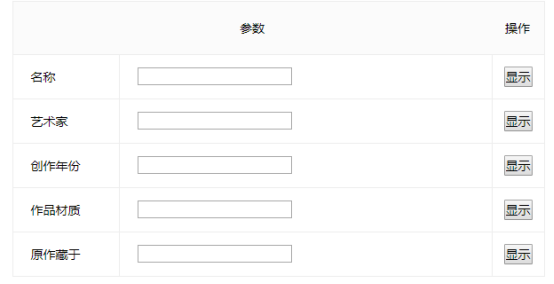
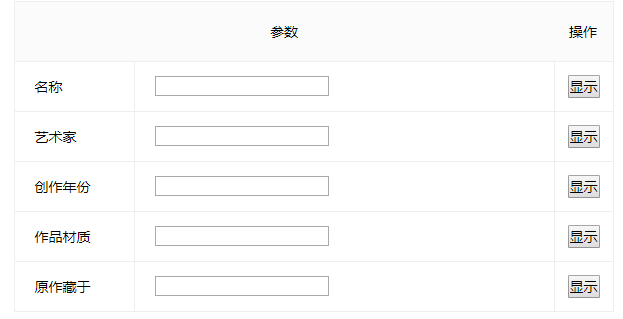
完善

diff --git a/help.html b/help.html
@@ -85,54 +85,55 @@ function initContentDiv(navFlag){
 	else if(navFlag=="zhgsxx"){
 		$("#zhgsxxNav_div").attr("class","item_div selected");
 			
-		contentStr+="<div>登录成功后，进入辰麒二维码管理平台。界面左侧是导航栏，右侧为操作窗口，进入系统后，默认进入“商家信息”操作窗口，在“商家信息”窗口中，用户可以根据自己需要，设置账户信息和公司信息。</div>";
-		contentStr+="<div style=\"margin-top:20px;\">";
+		contentStr+="<div style=\"height:60px;line-height:30px;\">登录成功后，进入辰麒二维码管理平台。界面左侧是导航栏，右侧为操作窗口，进入系统后，默认进入“商家信息”操作窗口，在“商家信息”窗口中，用户可以根据自己需要，设置账户信息和公司信息。</div>";
+		contentStr+="<div style=\"margin-top:20px;margin-bottom: 20px;\">";
 		contentStr+="<img src=\"qlqrcode_files/images/202004230003.png\" style=\"width:800px;height:484px;\"/>";
 		contentStr+="</div>";
 	}
 	else if(navFlag=="zdymb"){
 		$("#zdymbNav_div").attr("class","item_div selected");
 		
-		contentStr+="<div>一、自定义模板使用操作说明</div>";
-		contentStr+="<div>1、本系统通过定义产品的标签，例如：名称，产地，生产时间，配料，尺寸，净重等来描述产品的各个特性，因此，需要通过“标签定义”窗口来自定义需要在二维码中需要包含的各类标签，具体操作如下：</div>";
-		contentStr+="<div>1.1、在左侧导航栏找到“标签定义”按钮，并点击进入“标签定义”窗口，右侧操作窗口会显示“标签列表”，在操作窗口中点击“添加”按钮，进入添加自定义标签界面，来添加需要定义的标签，操作流程如下图：</div>";
-		contentStr+="<div>";
+		contentStr+="<div style=\"height:30px;line-height:30px;\">一、自定义模版使用操作说明</div>";
+		contentStr+="<div style=\"height:60px;line-height:30px;\">1、本系统通过定义产品的标签，例如：名称，产地，生产时间，配料，尺寸，净重等来描述产品的各个特性，因此，需要通过“标签定义”窗口来自定义需要在二维码中需要包含的各类标签，具体操作如下：</div>";
+		contentStr+="<div style=\"height:60px;line-height:30px;\">1.1、在左侧导航栏找到“标签定义”按钮，并点击进入“标签定义”窗口，右侧操作窗口会显示“标签列表”，在操作窗口中点击“添加”按钮，进入添加自定义标签界面，来添加需要定义的标签，操作流程如下图：</div>";
+		contentStr+="<div style=\"margin-top:20px;margin-bottom: 20px;\">";
 		contentStr+="<img src=\"qlqrcode_files/images/202004230004.png\" style=\"width:800px;height:233px;\"/>";
 		contentStr+="</div>";
-		contentStr+="<div>1.2、在添加自定义标签界面，依次设定“标签名称”、“是否显示”、“是否公有”、“是否需要验证”、“排序“等参数。以“产地”标签为例，首先在标签名称中，输入：产地。这里我们希望在商品管理时能够查看到“产地”这个标签，我们将“是否显示”设定为是，反之，我们设定为否。因为产品的产地一般都是相同的，所以我们将“是否公有”设定为是，同时将“是否要验证”设定为否，如果我们的产品产地各不相同，我们也可以将“是否公有”设定为否，而当我们在管理系统时，如果输入了相同的产地，希望系统提示我们，我们可以将“是否要验证”设定为是。如果我们要设定很多标签，我们需要给每个标签排序，以此来对标签的顺序进行设定，这里我们将产地的排序设定为2。设定完成后，点击提交即可。具体如下图所示：</div>";
-		contentStr+="<div style=\"text-align:left;\">";
+		contentStr+="<div style=\"height:150px;line-height:30px;\">1.2、在添加自定义标签界面，依次设定“标签名称”、“是否显示”、“是否公有”、“是否需要验证”、“排序“等参数。以“产地”标签为例，首先在标签名称中，输入：产地。这里我们希望在商品管理时能够查看到“产地”这个标签，我们将“是否显示”设定为是，反之，我们设定为否。因为产品的产地一般都是相同的，所以我们将“是否公有”设定为是，同时将“是否要验证”设定为否，如果我们的产品产地各不相同，我们也可以将“是否公有”设定为否，而当我们在管理系统时，如果输入了相同的产地，希望系统提示我们，我们可以将“是否要验证”设定为是。如果我们要设定很多标签，我们需要给每个标签排序，以此来对标签的顺序进行设定，这里我们将产地的排序设定为</div>";
+		contentStr+="<div style=\"height:30px;line-height:30px;\">2、设定完成后，点击提交即可。具体如下图所示：</div>";
+		contentStr+="<div style=\"margin-top:20px;margin-bottom: 20px;text-align:left;\">";
 		contentStr+="<img src=\"qlqrcode_files/images/202004230005.png\" style=\"width:800px;height:562px;\"/>";
 		contentStr+="</div>";
-		contentStr+="<div>同样的，可以再次设定其他的标签，比如“名称”等标签，具体设置如上所示。</div>";
-		contentStr+="<div>2、如果我们生产的产品有很多种类，我们还可以设置不同的类别，将不同的产品归属到不同的类别中，比如茶叶可以分为红茶，绿茶等类别，这样设置类别，可以方便管理。具体操作如下：</div>";
-		contentStr+="<div>2.1、点击导航栏“分类管理”按钮，进入分类管理窗口，在“添加/编辑分类”选项卡中输入类别编号，和类别名称，例如“红茶”，输入完成后，点击提交按钮即可。如下图所示：</div>";
-		contentStr+="<div style=\"text-align:left;\">";
+		contentStr+="<div style=\"height:30px;line-height:30px;\">同样的，可以再次设定其他的标签，比如“名称”等标签，具体设置如上所示。</div>";
+		contentStr+="<div style=\"height:60px;line-height:30px;\">2、如果我们生产的产品有很多种类，我们还可以设置不同的类别，将不同的产品归属到不同的类别中，比如茶叶可以分为红茶，绿茶等类别，这样设置类别，可以方便管理。具体操作如下：</div>";
+		contentStr+="<div style=\"height:60px;line-height:30px;\">2.1、点击导航栏“分类管理”按钮，进入分类管理窗口，在“添加/编辑分类”选项卡中输入类别编号，和类别名称，例如“红茶”，输入完成后，点击提交按钮即可。如下图所示：</div>";
+		contentStr+="<div style=\"margin-top:20px;margin-bottom: 20px;text-align:left;\">";
 		contentStr+="<img src=\"qlqrcode_files/images/202004230006.png\" style=\"width:800px;height:435px;\"/>";
 		contentStr+="</div>";
-		contentStr+="<div>可以根据产品分类添加，步骤如上。</div>";
-		contentStr+="<div>3、提交成功后，在左侧导航栏，商品管理中就能看到之前加入的新的分类，如下图：</div>";
-		contentStr+="<div>";
+		contentStr+="<div style=\"height:30px;line-height:30px;\">可以根据产品分类添加，步骤如上。</div>";
+		contentStr+="<div style=\"height:30px;line-height:30px;\">3、提交成功后，在左侧导航栏，商品管理中就能看到之前加入的新的分类，如下图：</div>";
+		contentStr+="<div style=\"margin-top:20px;margin-bottom: 20px;\">";
 		contentStr+="<img src=\"qlqrcode_files/images/202004230007.png\" style=\"width:800px;height:341px;\"/>";
 		contentStr+="</div>";
-		contentStr+="<div>4、点击新增加的红茶分类，进入该分类的管理窗口，就能看到</div>";
-		contentStr+="<div>我们在第1步设定好的标签，具体如下：</div>";
-		contentStr+="<div>";
+		contentStr+="<div style=\"height:30px;line-height:30px;\">4、点击新增加的红茶分类，进入该分类的管理窗口，就能看到</div>";
+		contentStr+="<div style=\"height:30px;line-height:30px;\">我们在第1步设定好的标签，具体如下：</div>";
+		contentStr+="<div style=\"margin-top:20px;margin-bottom: 20px;\">";
 		contentStr+="<img src=\"qlqrcode_files/images/202004230008.png\" style=\"width:800px;height:267px;\"/>";
 		contentStr+="</div>";
-		contentStr+="<div>5、在上图中的导航栏，点击“添加”按钮，或者在操作窗口点击“发布新商品”按钮，可以进入“添加商品”界面，依次输入商品编号，名称，产地（如果之前定义了其他标签，这里还可以输入其他信息，例如生产日期，保质期等等）等信息，然后点击提交。如下图所示。</div>";
-		contentStr+="<div>";
+		contentStr+="<div style=\"height:60px;line-height:30px;\">5、在上图中的导航栏，点击“添加”按钮，或者在操作窗口点击“发布新商品”按钮，可以进入“添加商品”界面，依次输入商品编号，名称，产地（如果之前定义了其他标签，这里还可以输入其他信息，例如生产日期，保质期等等）等信息，然后点击提交。如下图所示。</div>";
+		contentStr+="<div style=\"margin-top:20px;margin-bottom: 20px;\">";
 		contentStr+="<img src=\"qlqrcode_files/images/202004230009.png\" style=\"width:800px;height:510px;\"/>";
 		contentStr+="</div>";
-		contentStr+="<div>6、提交成功之后，就可以在商品管理中查看之前发布的所有商品了。先在商品管理中，点击“红茶”按钮，进入商品列表，然后在操作窗口中，选中想要查看的商品，点击该商品的二维码，就可以展示生成的二维码，通过扫描此二维码，就可以进入该商品的链接，产看到此商品的各种信息。如下图所示：</div>";
-		contentStr+="<div>";
+		contentStr+="<div style=\"height:60px;line-height:30px;\">6、提交成功之后，就可以在商品管理中查看之前发布的所有商品了。先在商品管理中，点击“红茶”按钮，进入商品列表，然后在操作窗口中，选中想要查看的商品，点击该商品的二维码，就可以展示生成的二维码，通过扫描此二维码，就可以进入该商品的链接，产看到此商品的各种信息。如下图所示：</div>";
+		contentStr+="<div style=\"margin-top:20px;margin-bottom: 20px;\">";
 		contentStr+="<img src=\"qlqrcode_files/images/202004230010.png\" style=\"width:800px;height:386px;\"/>";
 		contentStr+="</div>";
 	}
 	else if(navFlag=="hymb"){
 		$("#hymbNav_div").attr("class","item_div selected");
 
-		contentStr+="<div>行业模板使用操作说明</div>";
-		contentStr+="<div>红酒模板</div>";
+		contentStr+="<div>行业模版使用操作说明</div>";
+		contentStr+="<div>红酒模版</div>";
 		contentStr+="<div>";
 		contentStr+="<img src=\"qlqrcode_files/images/202004230011.png\" style=\"width:800px;height:230px;\"/>";
 		contentStr+="</div>";
@@ -166,7 +167,7 @@ function initContentDiv(navFlag){
 		contentStr+="</div>";
 		contentStr+="<div>生码成功后，扫码查看信息，若生成二维码后内容需要修改，点击编辑内容即可修改，修改后的二维码不需要重新生成，扫码显示内容为最新内容。</div>";
 		contentStr+="<div>例如：</div>";
-		contentStr+="<div>1、家纺模板：</div>";
+		contentStr+="<div>1、家纺模版：</div>";
 		contentStr+="<div>点击左侧导航栏家纺进入：</div>";
 		contentStr+="<div>";
 		contentStr+="<img src=\"qlqrcode_files/images/202004230019.png\" style=\"width:800px;height:262px;\"/>";
@@ -192,7 +193,7 @@ function initContentDiv(navFlag){
 		contentStr+="<img src=\"qlqrcode_files/images/202004230024.png\" style=\"width:800px;height:559px;\"/>";
 		contentStr+="</div>";
 		contentStr+="<div>生码成功，扫码查看信息，若生成二维码后内容需要修改，点击编辑内容即可修改，修改后的二维码不需要重新生成，扫码显示内容为最新内容。</div>";
-		contentStr+="<div>2、艺术品模板：</div>";
+		contentStr+="<div>2、艺术品模版：</div>";
 		contentStr+="<div>点击左侧导航栏艺术品进入：</div>";
 		contentStr+="<div>";
 		contentStr+="<img src=\"qlqrcode_files/images/202004230025.png\" style=\"width:800px;height:187px;\"/>";
@@ -203,83 +204,83 @@ function initContentDiv(navFlag){
 		contentStr+="</div>";
 		contentStr+="<div>输入名称，编辑图片上传</div>";
 		contentStr+="<div>";
-		contentStr+="<img src=\"qlqrcode_files/images/202004230027.png\"/>";
+		contentStr+="<img src=\"qlqrcode_files/images/202004230027.png\" style=\"width:800px;height:410px;\"/>";
 		contentStr+="</div>";
 		contentStr+="<div>输入产品参数，操作下面的按钮可以根据需要选择显示或隐藏，选择隐藏后扫码不显示</div>";
 		contentStr+="<div>";
-		contentStr+="<img src=\"qlqrcode_files/images/202004230028.png\"/>";
+		contentStr+="<img src=\"qlqrcode_files/images/202004230028.png\" style=\"width:800px;height:238px;\"/>";
 		contentStr+="</div>";
 		contentStr+="<div>输入作品简介，可以上传图片，编辑排版，字体大小可调。</div>";
 		contentStr+="<div>";
-		contentStr+="<img src=\"qlqrcode_files/images/202004230029.png\"/>";
+		contentStr+="<img src=\"qlqrcode_files/images/202004230029.png\" style=\"width:800px;height:660px;\"/>";
 		contentStr+="</div>";
 		contentStr+="<div>所有内容上传完成后点击右上角生成二维码</div>";
 		contentStr+="<div>";
-		contentStr+="<img src=\"qlqrcode_files/images/202004230030.png\"/>";
+		contentStr+="<img src=\"qlqrcode_files/images/202004230030.png\" style=\"width:800px;height:568px;\"/>";
 		contentStr+="</div>";
 		contentStr+="<div>生码成功，扫码查看信息，若生成二维码后内容需要修改，点击编辑内容即可修改，修改后的二维码不需要重新生成，扫码显示内容为最新内容。</div>";
-		contentStr+="<div>3、说明书模板：</div>";
+		contentStr+="<div>3、说明书模版：</div>";
 		contentStr+="<div>点击左侧导航栏说明书进入：</div>";
 		contentStr+="<div>";
-		contentStr+="<img src=\"qlqrcode_files/images/202004230031.png\" style=\"width:1100px;height:364px;\"/>";
+		contentStr+="<img src=\"qlqrcode_files/images/202004230031.png\" style=\"width:800px;height:264px;\"/>";
 		contentStr+="</div>";
 		contentStr+="<div>点击添加</div>";
 		contentStr+="<div>";
-		contentStr+="<img src=\"qlqrcode_files/images/202004230032.png\"/>";
+		contentStr+="<img src=\"qlqrcode_files/images/202004230032.png\" style=\"width:400px;height:409px;\"/>";
 		contentStr+="</div>";
 		contentStr+="<div>点击编辑上传相应图片，输入产品标题</div>";
 		contentStr+="<div>";
-		contentStr+="<img src=\"qlqrcode_files/images/202004230033.png\"/>";
+		contentStr+="<img src=\"qlqrcode_files/images/202004230033.png\" style=\"width:800px;height:237px;\"/>";
 		contentStr+="</div>";
 		contentStr+="<div>根据需要输入内容，内容可以为空白，空白后扫码不显示</div>";
 		contentStr+="<div>";
-		contentStr+="<img src=\"qlqrcode_files/images/202004230034.png\"/>";
+		contentStr+="<img src=\"qlqrcode_files/images/202004230034.png\" style=\"width:800px;height:458px;\"/>";
 		contentStr+="</div>";
 		contentStr+="<div>根据需要填写参数，点击显示按钮就变成隐藏，根据需要自己选择，选择隐藏后扫码不显示</div>";
 		contentStr+="<div>";
-		contentStr+="<img src=\"qlqrcode_files/images/202004230035.png\"/>";
+		contentStr+="<img src=\"qlqrcode_files/images/202004230035.png\" style=\"width:400px;height:403px;\"/>";
 		contentStr+="</div>";
 		contentStr+="<div>点击编辑按钮可以上传图片，可一次性上传五张，按图片上传顺序显示</div>";
 		contentStr+="<div>";
-		contentStr+="<img src=\"qlqrcode_files/images/202004230036.png\"/>";
+		contentStr+="<img src=\"qlqrcode_files/images/202004230036.png\" style=\"width:800px;height:402px;\"/>";
 		contentStr+="</div>";
 		contentStr+="<div>点击编辑可上传视频</div>";
 		contentStr+="<div>";
-		contentStr+="<img src=\"qlqrcode_files/images/202004230037.png\"/>";
+		contentStr+="<img src=\"qlqrcode_files/images/202004230037.png\" style=\"width:800px;height:628px;\"/>";
 		contentStr+="</div>";
 		contentStr+="<div>所有内容上传完成后点击右上角生成二维码</div>";
 		contentStr+="<div>";
-		contentStr+="<img src=\"qlqrcode_files/images/202004230038.png\"/>";
+		contentStr+="<img src=\"qlqrcode_files/images/202004230038.png\" style=\"width:800px;height:517px;\"/>";
 		contentStr+="</div>";
 		contentStr+="<div>生码成功，扫码查看信息，若生成二维码后内容需要修改，点击编辑内容即可修改，修改后的二维码不需要重新生成，扫码显示内容为最新内容。</div>";
-		contentStr+="<div>说明书模板可以用EXCEL批量生成二维码，操作如下：</div>";
+		contentStr+="<div>说明书模版可以用EXCEL批量生成二维码，操作如下：</div>";
 		contentStr+="<div>点击左侧导航栏说明书进入：</div>";
 		contentStr+="<div>";
-		contentStr+="<img src=\"qlqrcode_files/images/202004230039.png\" style=\"width:1100px;height:373px;\"/>";
+		contentStr+="<img src=\"qlqrcode_files/images/202004230039.png\" style=\"width:800px;height:272px;\"/>";
 		contentStr+="</div>";
 		contentStr+="<div>点击EXCEL批量生成</div>";
 		contentStr+="<div>";
-		contentStr+="<img src=\"qlqrcode_files/images/202004230040.png\"/>";
+		contentStr+="<img src=\"qlqrcode_files/images/202004230040.png\" style=\"width:400px;height:456px;\"/>";
 		contentStr+="</div>";
-		contentStr+="<div>进入页面，跟说明书添加模板操作步骤一样，所有内容编辑完成后</div>";
+		contentStr+="<div>进入页面，跟说明书添加模版操作步骤一样，所有内容编辑完成后</div>";
 		contentStr+="<div>";
-		contentStr+="<img src=\"qlqrcode_files/images/202004230041.png\"/>";
+		contentStr+="<img src=\"qlqrcode_files/images/202004230041.png\" style=\"width:800px;height:613px;\"/>";
 		contentStr+="</div>";
 		contentStr+="<div>点击右上角上传EXCEL生成一批码</div>";
 		contentStr+="<div>";
-		contentStr+="<img src=\"qlqrcode_files/images/202004230042.png\"/>";
+		contentStr+="<img src=\"qlqrcode_files/images/202004230042.png\" style=\"width:800px;height:542px;\"/>";
 		contentStr+="</div>";
-		contentStr+="<div>下载EXCEL模板，填写完成后点击我已填好EXCEL,下一步</div>";
+		contentStr+="<div>下载EXCEL模版，填写完成后点击我已填好EXCEL,下一步</div>";
 		contentStr+="<div>";
-		contentStr+="<img src=\"qlqrcode_files/images/202004230043.png\"/>";
+		contentStr+="<img src=\"qlqrcode_files/images/202004230043.png\" style=\"width:800px;height:533px;\"/>";
 		contentStr+="</div>";
 		contentStr+="<div>上传EXCEL,即可自动生成二维码</div>";
 		contentStr+="<div>";
-		contentStr+="<img src=\"qlqrcode_files/images/202004230044.png\"/>";
+		contentStr+="<img src=\"qlqrcode_files/images/202004230044.png\" style=\"width:800px;height:241px;\"/>";
 		contentStr+="</div>";
 		contentStr+="<div>箭头所指红框里的即为批量生成的二维码，点击详情即可查看</div>";
 		contentStr+="<div>";
-		contentStr+="<img src=\"qlqrcode_files/images/202004230045.png\"/>";
+		contentStr+="<img src=\"qlqrcode_files/images/202004230045.png\" style=\"width:800px;height:521px;\"/>";
 		contentStr+="</div>";
 		contentStr+="<div>生码成功，扫码查看信息，若生成二维码后内容需要修改，点击编辑内容即可修改，修改后的二维码不需要重新生成，扫码显示内容为最新内容。</div>";
 	}
@@ -297,7 +298,7 @@ function initContentDiv(navFlag){
 				<a class="a2" href="index.html">首页</a>
 			</li>
             <li>
-				<a class="a2" href="solutionCommodity.html">案例模板</a>
+				<a class="a2" href="solutionCommodity.html">案例模版</a>
 			</li>
 			<li>
 				<a class="a2" href="qrcodeCreate/text.html">二维码生成器</a>
@@ -324,8 +325,8 @@ function initContentDiv(navFlag){
 		<div style="height:20px;"></div>
 		<div class="item_div selected" id="dlzcNav_div" onclick="initContentDiv('dlzc')">登录、注册</div>
 		<div class="item_div" id="zhgsxxNav_div" onclick="initContentDiv('zhgsxx')">设置账户信息和公司信息</div>
-		<div class="item_div" id="zdymbNav_div" onclick="initContentDiv('zdymb')">自定义模板</div>
-		<div class="item_div" id="hymbNav_div" onclick="initContentDiv('hymb')">行业模板使用操作说明</div>
+		<div class="item_div" id="zdymbNav_div" onclick="initContentDiv('zdymb')">自定义模版</div>
+		<div class="item_div" id="hymbNav_div" onclick="initContentDiv('hymb')">行业模版使用操作说明</div>
 	</div>
 	<div class="rightNav_div" id="rightNav_div" style="margin-top:-160px;margin-left:320px;font-size:16px;">
 		<div id="content_div" style="width:1100px;margin:15px auto 0;">
